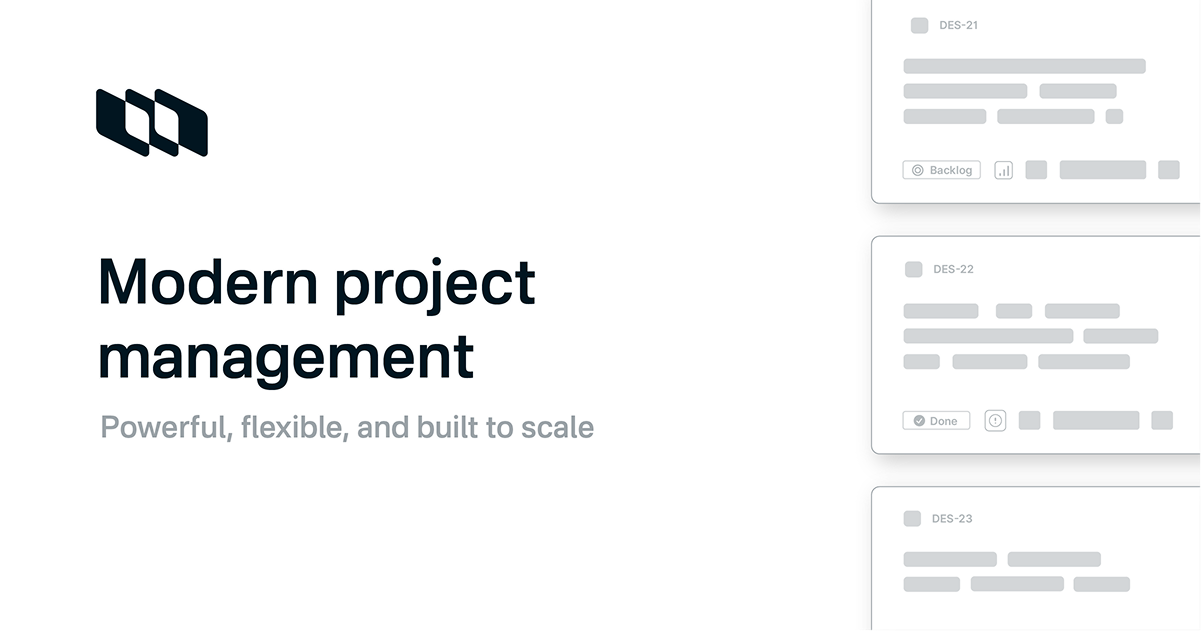
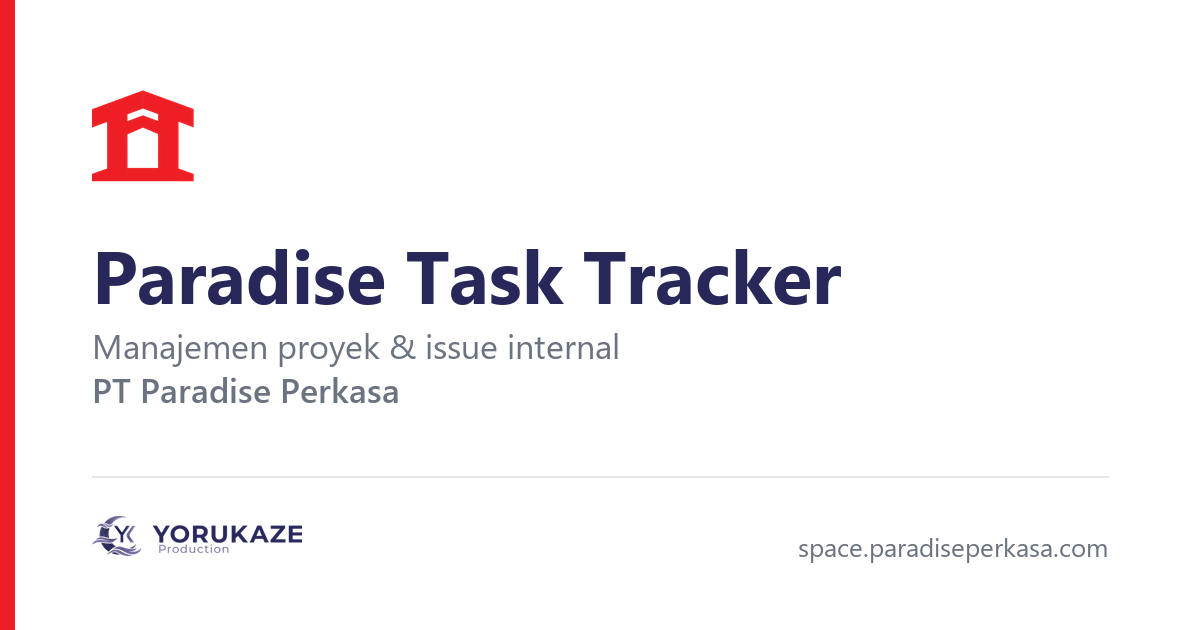
feat(branding): ganti gambar pratinjau tautan dengan merek Paradise
Tiap kali seseorang membagikan tautan aplikasi di WhatsApp, Slack, atau Teams,
yang muncul adalah materi pemasaran Plane: logo mereka, tulisan "Modern project
management", dan "Powerful, flexible, and built to scale". Judul dan deskripsinya
sudah lama benar, gambarnya tidak pernah diganti.

Ini tempat merek vendor paling terlihat oleh orang yang belum pernah membuka
aplikasinya, justru karena tidak ada yang perlu masuk untuk melihatnya.

Penggantinya disusun dari aset merek yang SUDAH ada di repo, bukan gambar baru
yang dikarang: logo Paradise Perkasa, logo Yorukaze Production, dan dua warna
yang diambil langsung dari piksel logonya (#ED1F24 dan #27275A), bukan
dikira-kira dari layar.

SKRIPNYA IKUT DISIMPAN, BUKAN CUMA HASILNYA
`paradise/bin/buat-og-image.py` menyusun ulang gambarnya dari nol. Tanpa itu,
perubahan logo atau nama berikutnya menuntut seseorang membuka penyunting gambar
dan menebak ukuran, posisi, serta warna yang dipakai hari ini. Skrip itu juga
melempar terang-terangan kalau fontnya tidak ada, alih-alih diam-diam jatuh ke
font bawaan Pillow dan menghasilkan gambar yang terlihat rusak.

Ukurannya 1200x630, yang diminta Open Graph dan dipakai WhatsApp, Slack, Teams,
serta Twitter. Rasio yang meleset akan dipotong sembarangan oleh mereka.

Diperiksa juga: apps/space dan apps/admin memang tidak punya gambar sosial
sendiri, jadi tidak ada berkas serupa yang tertinggal. Kata "plane" yang tersisa
[…]

diff --git a/paradise/bin/buat-og-image.py b/paradise/bin/buat-og-image.py
@@ -1,0 +1,94 @@
+#!/usr/bin/env python3
+"""Susun gambar pratinjau tautan (Open Graph) dari aset merek yang ada.
+
+Gambar bawaan Plane adalah materi pemasaran mereka ("Modern project management,
+powerful, flexible, and built to scale"), lengkap dengan logonya. Ia muncul tiap
+kali seseorang membagikan tautan aplikasi di WhatsApp, Slack, atau Teams, dan di
+situlah merek vendor paling terlihat oleh orang yang belum pernah membuka
+aplikasinya.
+
+Skrip ini disimpan, bukan sekadar gambarnya, supaya kalau logo atau nama berubah
+tidak perlu ada yang membuka penyunting gambar dan menebak-nebak ukurannya.
+
+Pakai:  python paradise/bin/buat-og-image.py
+Hasil:  apps/web/app/assets/og-image.png (1200x630)
+"""
+
+from pathlib import Path
+
+from PIL import Image, ImageDraw, ImageFont
+
+AKAR = Path(__file__).resolve().parents[2]
+ASET = AKAR / "apps/web/app/assets"
+
+# Diambil langsung dari piksel logonya, bukan dikira-kira.
+MERAH = (0xED, 0x1F, 0x24)
+NAVY = (0x27, 0x27, 0x5A)
+ABU = (0x6B, 0x72, 0x80)
+GARIS = (0xE5, 0xE7, 0xEB)
+
+# 1200x630 adalah ukuran yang diminta Open Graph dan dipakai WhatsApp, Slack,
+# Teams, dan Twitter. Rasio yang meleset akan dipotong sembarangan oleh mereka.
+LEBAR, TINGGI = 1200, 630
+TEPI = 92
+
+
+def font(nama, ukuran):
+    """Segoe UI kalau ada, Arial sebagai cadangan.
+
+    Keduanya ada di Windows; di mesin lain skrip ini akan melempar, dan itu
+    disengaja. Diam-diam jatuh ke font bawaan Pillow menghasilkan gambar yang
+    terlihat rusak, dan itu lebih buruk daripada gagal terang-terangan.
+    """
+    for f in nama:
+        p = Path("C:/Windows/Fonts") / f
+        if p.exists():
+            return ImageFont.truetype(str(p), ukuran)
+    raise SystemExit(f"font tidak ditemukan: {nama}")
+
+
+def main() -> None:
+    kanvas = Image.new("RGB", (LEBAR, TINGGI), "white")
+    d = ImageDraw.Draw(kanvas)
+
+    # Pita merah setinggi kanvas. Satu elemen, satu warna merek, dan cukup untuk
+    # membuat gambarnya terbaca sebagai milik seseorang alih-alih kartu kosong.
+    d.rectangle([0, 0, 14, TINGGI], fill=MERAH)
+
+    logo = Image.open(ASET / "images/paradise-logo.png").convert("RGBA")
+    logo = logo.resize((104, 104), Image.LANCZOS)
+    kanvas.paste(logo, (TEPI, 84), logo)
+
+    d.text((TEPI, 224), "Paradise Task Tracker", font=font(["segoeuib.ttf", "arialbd.ttf"], 74), fill=NAVY)
+    d.text(
+        (TEPI, 322),
+        "Manajemen proyek & issue internal",
+        font=font(["segoeui.ttf", "arial.ttf"], 34),
+        fill=ABU,
+    )
+    d.text(
+        (TEPI, 366),
+        "PT Paradise Perkasa",
+        font=font(["seguisb.ttf", "arial.ttf"], 34),
+        fill=ABU,
+    )
+
+    d.line([TEPI, 476, LEBAR - TEPI, 476], fill=GARIS, width=2)
+
+    yorukaze = Image.open(ASET / "logos/yorukaze-light.png").convert("RGBA")
+    skala = 210 / yorukaze.width
+    yorukaze = yorukaze.resize((210, max(1, int(yorukaze.height * skala))), Image.LANCZOS)
+    kanvas.paste(yorukaze, (TEPI, 516), yorukaze)
+
+    alamat = "space.paradiseperkasa.com"
+    f_alamat = font(["segoeui.ttf", "arial.ttf"], 26)
+    lebar_alamat = d.textlength(alamat, font=f_alamat)
+    d.text((LEBAR - TEPI - lebar_alamat, 528), alamat, font=f_alamat, fill=ABU)
+
+    keluar = ASET / "og-image.png"
+    kanvas.save(keluar, "PNG", optimize=True)
+    print(f"ditulis: {keluar.relative_to(AKAR)} ({keluar.stat().st_size} byte, {LEBAR}x{TINGGI})")
+
+
+if __name__ == "__main__":
+    main()
